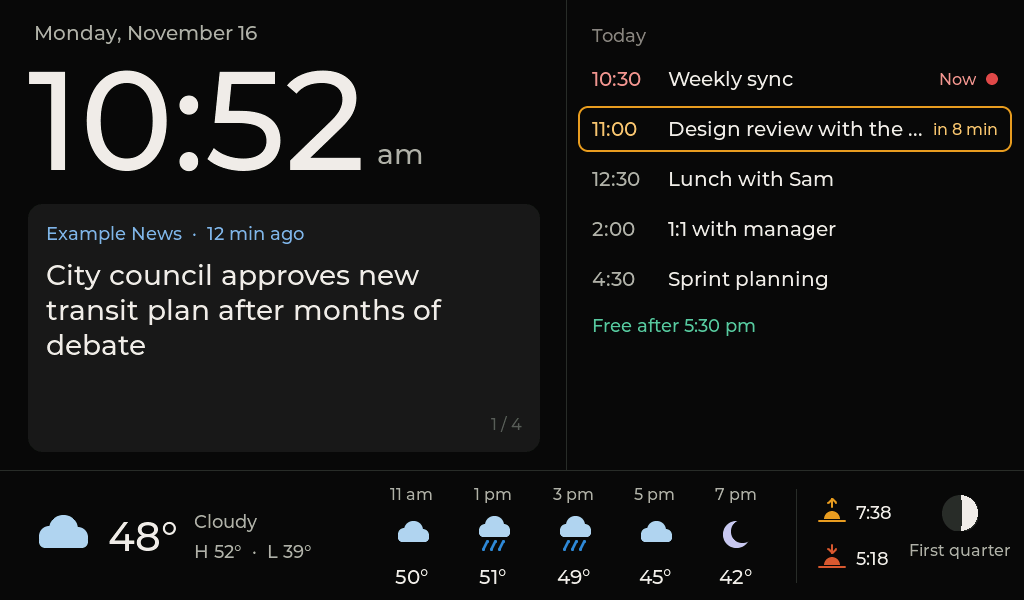
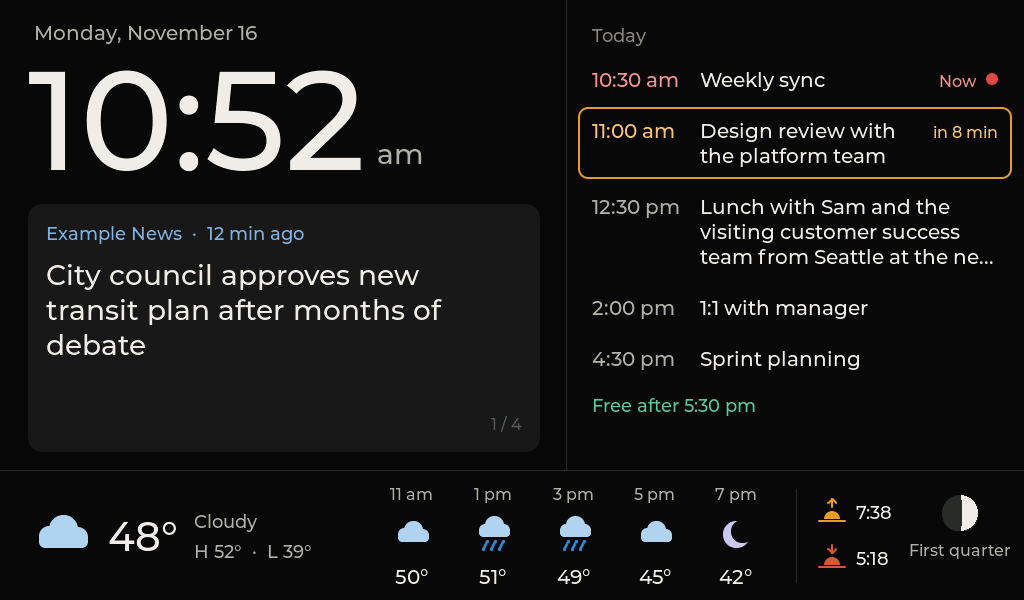
Agenda: wrap long titles and show am/pm on times
Titles wrap up to three lines before ending with an ellipsis. Rows are
added until the list is full, then '+ N more'.

diff --git a/firmware/ui/dashboard.cpp b/firmware/ui/dashboard.cpp
@@ -8,7 +8,7 @@
 
 namespace {
 
-constexpr int MAX_ROWS = 7;
+constexpr int MAX_TITLE_LINES = 3;
 constexpr int HEADLINE_LINES = 4;
 
 const char* const DAYS[] = {"Sunday",   "Monday", "Tuesday", "Wednesday",
@@ -50,14 +50,17 @@ void add_note(const char* text, uint32_t hex, const lv_font_t* font = &font_text
     lv_label_set_long_mode(note, LV_LABEL_LONG_WRAP);
 }
 
-void add_row(const Event& e) {
+// One agenda line. Returns the row so the caller can check that it fitted.
+lv_obj_t* add_row(const Event& e) {
     bool now = e.status == "now", soon = e.status == "soon";
+    const int line = lv_font_get_line_height(&font_text_20);
 
     lv_obj_t* row = make_box(list);
-    lv_obj_set_size(row, lv_pct(100), 46);
+    lv_obj_set_size(row, lv_pct(100), LV_SIZE_CONTENT);
     lv_obj_set_flex_flow(row, LV_FLEX_FLOW_ROW);
-    lv_obj_set_flex_align(row, LV_FLEX_ALIGN_START, LV_FLEX_ALIGN_CENTER, LV_FLEX_ALIGN_CENTER);
+    lv_obj_set_flex_align(row, LV_FLEX_ALIGN_START, LV_FLEX_ALIGN_START, LV_FLEX_ALIGN_START);
     lv_obj_set_style_pad_hor(row, 12, 0);
+    lv_obj_set_style_pad_ver(row, 9, 0);
     lv_obj_set_style_pad_column(row, 10, 0);
     lv_obj_set_style_radius(row, 10, 0);
     lv_obj_set_style_border_width(row, 2, 0);
@@ -65,25 +68,54 @@ void add_row(const Event& e) {
     lv_obj_set_style_border_opa(row, soon ? LV_OPA_COVER : LV_OPA_TRANSP, 0);  // starts soon: outline
 
     uint32_t time_hex = now ? C_RED_TEXT : soon ? C_AMBER_TEXT : C_MUTED;
-    lv_obj_t* when = make_label(row, &font_text_20, time_hex, e.start_label.c_str());
-    lv_obj_set_width(when, 66);
+    lv_obj_t* when = make_label(row, &font_text_20, time_hex);
+    lv_label_set_text_fmt(when, "%s %s", e.start_label.c_str(), e.start_ampm.c_str());
+    lv_obj_set_width(when, 98);
 
+    // The title wraps instead of being cut off, up to MAX_TITLE_LINES.
     lv_obj_t* title = make_label(row, &font_text_20, C_TEXT, e.title.c_str());
     lv_obj_set_flex_grow(title, 1);
-    lv_obj_set_height(title, lv_font_get_line_height(&font_text_20));
-    lv_label_set_long_mode(title, LV_LABEL_LONG_DOT);
+    lv_label_set_long_mode(title, LV_LABEL_LONG_WRAP);
 
     if (now) {  // in progress: "Now" and a red dot
-        make_label(row, &font_text_16, C_RED_TEXT, "Now");
+        lv_obj_t* tag = make_label(row, &font_text_16, C_RED_TEXT, "Now");
+        lv_obj_set_style_translate_y(tag, 3, 0);
         lv_obj_t* dot = make_box(row);
         lv_obj_set_size(dot, 12, 12);
         lv_obj_set_style_radius(dot, LV_RADIUS_CIRCLE, 0);
         lv_obj_set_style_bg_color(dot, col(C_RED), 0);
         lv_obj_set_style_bg_opa(dot, LV_OPA_COVER, 0);
+        lv_obj_set_style_translate_y(dot, (line - 12) / 2, 0);
     } else if (soon && e.minutes_until >= 0) {
         lv_obj_t* in = make_label(row, &font_text_16, C_AMBER_TEXT);
         lv_label_set_text_fmt(in, "in %d min", e.minutes_until);
+        lv_obj_set_style_translate_y(in, 3, 0);
     }
+
+    lv_obj_update_layout(row);
+    if (lv_obj_get_height(title) > line * MAX_TITLE_LINES) {  // very long: end with "…"
+        lv_obj_set_height(title, line * MAX_TITLE_LINES);
+        lv_label_set_long_mode(title, LV_LABEL_LONG_DOT);
+        lv_obj_update_layout(row);
+    }
+    return row;
+}
+
+// Adds rows until the list is full. Returns how many were shown.
+int add_rows(const std::vector<const Event*>& events, int reserve) {
+    int shown = 0;
+    for (const Event* e : events) {
+        lv_obj_t* row = add_row(*e);
+        lv_obj_update_layout(list);
+        int bottom = lv_obj_get_y(row) + lv_obj_get_height(row);
+        bool last = shown + 1 == (int)events.size();
+        if (bottom > lv_obj_get_height(list) - (last ? 0 : reserve) && shown > 0) {
+            lv_obj_delete(row);
+            break;
+        }
+        shown++;
+    }
+    return shown;
 }
 
 void show_agenda() {
@@ -100,29 +132,32 @@ void show_agenda() {
     for (const Event& e : model.events) {
         if (e.status != "past") left.push_back(&e);
     }
-    int rows = 0;
-    for (const Event* e : left) {
-        if (rows == MAX_ROWS) break;
-        add_row(*e);
-        rows++;
-    }
-    if ((int)left.size() > rows) {
-        char more[32];
-        snprintf(more, sizeof more, "+ %d more", (int)left.size() - rows);
-        add_note(more, C_DIM, &font_text_16);
-    } else if (!left.empty() && !model.free_after.empty()) {
-        add_note(("Free after " + model.free_after).c_str(), C_GREEN);
-    }
-    if (left.empty()) {
-        add_note(model.events.empty() ? "No meetings today" : "Nothing else today", C_GREEN);
-        if (!model.tomorrow.empty()) {
-            add_note("Tomorrow", C_DIM);
-            for (size_t i = 0; i < model.tomorrow.size() && rows < MAX_ROWS - 2; i++, rows++) {
-                Event plain = model.tomorrow[i];
-                plain.status = "upcoming";
-                add_row(plain);
+    const int NOTE = 34;  // room kept for one line of small text under the rows
+    if (!left.empty()) {
+        int shown = add_rows(left, NOTE);
+        if ((int)left.size() > shown) {
+            char more[32];
+            snprintf(more, sizeof more, "+ %d more", (int)left.size() - shown);
+            add_note(more, C_DIM, &font_text_16);
+        } else if (!model.free_after.empty()) {
+            lv_obj_update_layout(list);
+            lv_obj_t* last = lv_obj_get_child(list, -1);
+            if (lv_obj_get_y(last) + lv_obj_get_height(last) + NOTE <= lv_obj_get_height(list)) {
+                add_note(("Free after " + model.free_after).c_str(), C_GREEN);
             }
         }
+        return;
+    }
+    add_note(model.events.empty() ? "No meetings today" : "Nothing else today", C_GREEN);
+    if (!model.tomorrow.empty()) {
+        add_note("Tomorrow", C_DIM);
+        std::vector<Event> plain(model.tomorrow);
+        std::vector<const Event*> next;
+        for (Event& e : plain) {
+            e.status = "upcoming";
+            next.push_back(&e);
+        }
+        add_rows(next, 0);
     }
 }
 
